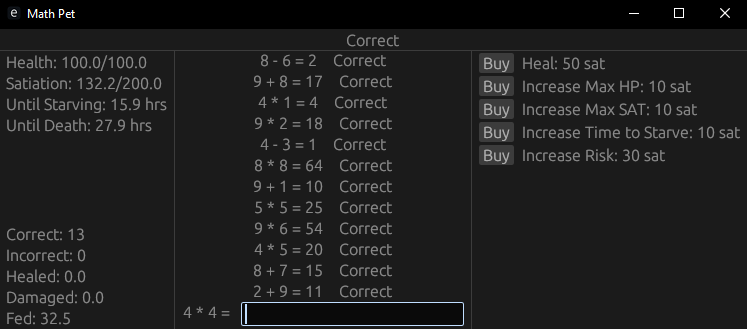
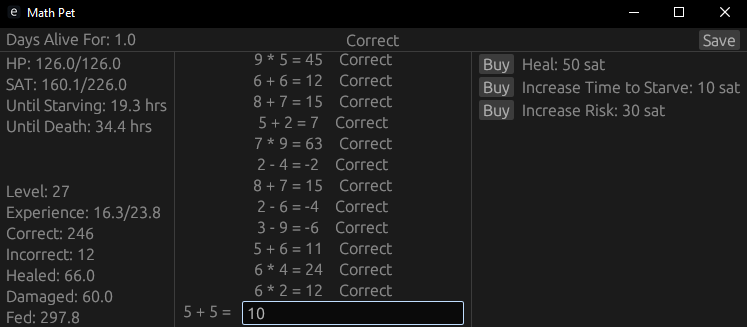
Updated README and sample image

diff --git a/README.md b/README.md
@@ -8,18 +8,15 @@ This is a Tamagotchi-like game. To feed the pet, you must answer simple math pro
 
 The pet will slowly become hungry over time. When its SAT reaches 0, it will begin losing health. If the pet's health reaches 0, it will die, and the game will reset. The old game save is stored internally within the file, but isn't currently used for anything. I think I may add a "resurrection" mechanic at some point.
 
-The game auto-saves on close.
+The game auto-saves on close provided you don't close it by closing an associated terminal.
 
 ## Shop
 
 SAT can be "spent" in order to tweak some aspects of the game and affect the pet.
 
 - Heal: Heal the pet for 20 HP
-- Increase Max SAT: Increase the max SAT of the pet by 2
-- Increase Max HP: Increase the max HP of the pet by 2
 - Increase Time to Starve: Reduce how quickly the pet loses SAT
 - Increase Risk: Increase the amount of SAT recovered for correct answers by 0.2, but increase the amount of health lost for wrong answers by 0.5.
-
 
 # Running
 
@@ -37,4 +34,4 @@ Running the executable directly after compiling it:
 PS path> .\math-pet.exe
 ```
 
-This will open a GUI in a new window.
+This will open a GUI in a new window. You can also pass a `--text` argument to use the in-terminal UI instead of the full GUI.
